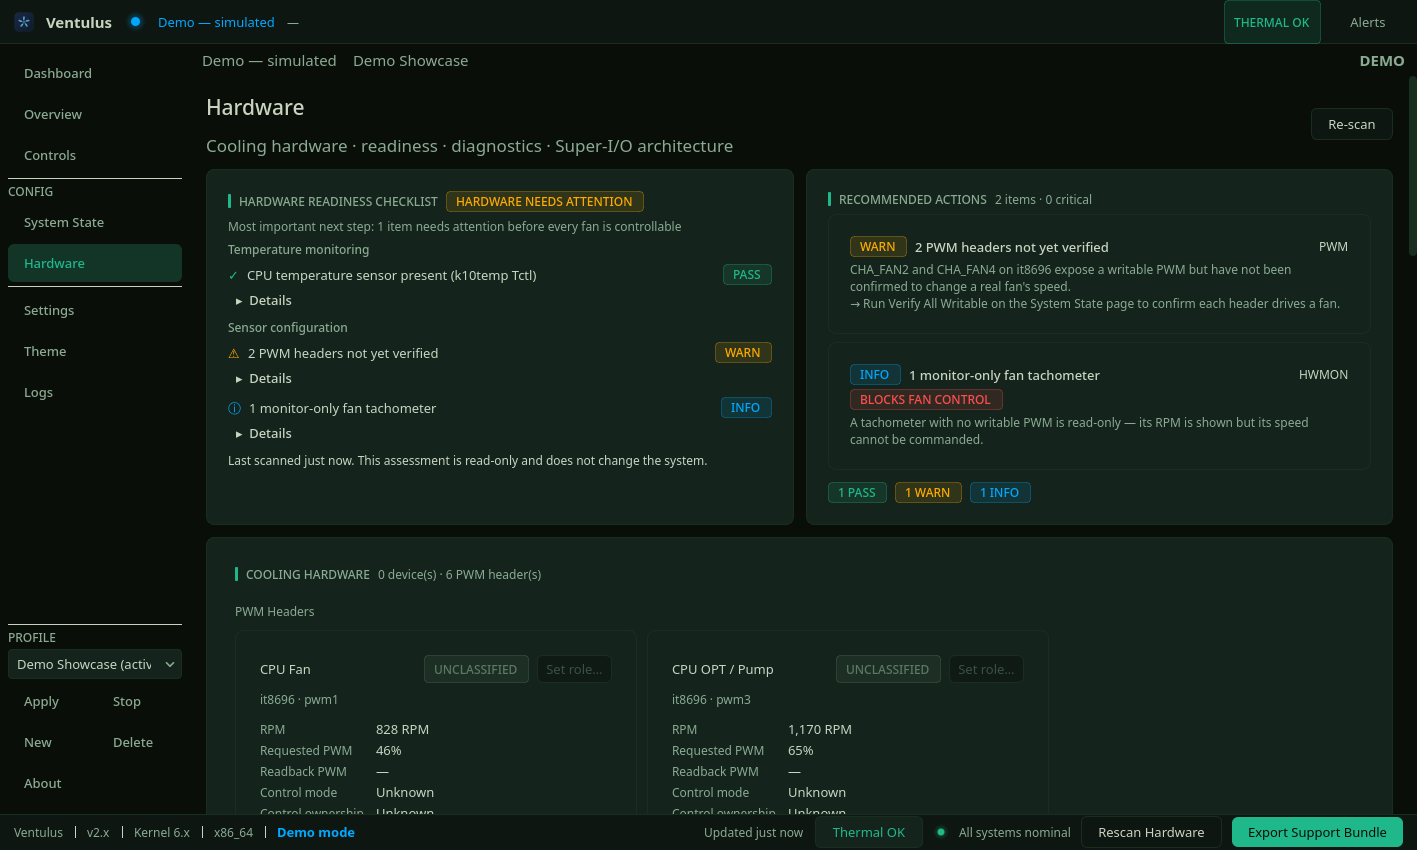
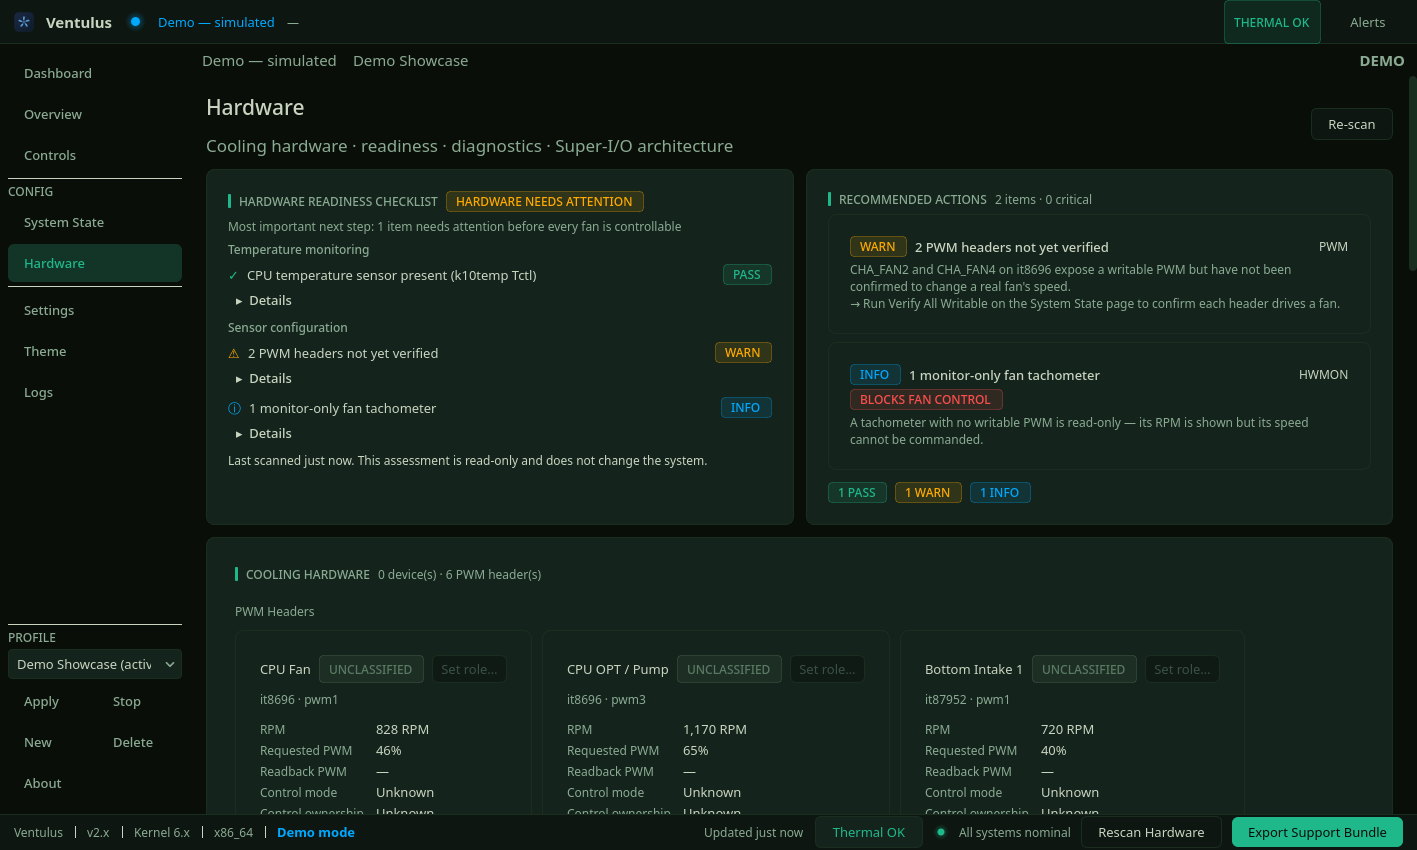
release: ventulus 6.0.0
Batch since v5.5.0: one major commit (the GUI no longer runs the tests
that drive fans for minutes, ee53d6d), two minor (ventulus-diag, 5df0fbd;
ventulus-diag split into its own package in every format, 391864f), two
patch (manual Administration section, abb8d79; diag socket-refusal and
empty-config messages, 1582f30) and one none (contract note on GPU verify
during a stop, 8f48ed2). The user asked for a minor bump and then chose
6.0.0 to honour the recorded major impact. Version moves to 6.0.0 in
pyproject, PKGBUILD and the README release line; [Unreleased] becomes
[6.0.0] with a note on why it is major. The ventulusd floor stays >= 3.0.0.
Screenshots recaptured: 05_hardware changed (Hardware Diagnostics note);
the dashboard differed only inside the chart's plotted traces (capture
noise), so its committed copy is kept.

diff --git a/README.md b/README.md
@@ -2,7 +2,7 @@
 
 *Formerly Control-OFC (`control-ofc-gui`).*
 
-**Latest release:** v5.5.0 — 2026-10-26. Pairs with `ventulusd` ≥ v3.0.0; version numbers carry on from Control-OFC. Individual features gate on newer daemons and say so in the app when one is missing.
+**Latest release:** v6.0.0 — 2026-11-03. Pairs with `ventulusd` ≥ v3.0.0; version numbers carry on from Control-OFC. Individual features gate on newer daemons and say so in the app when one is missing.
 
 Ventulus is a fan control app for Linux desktops. You decide how each group of fans
 should respond to temperature; a background service, [`ventulusd`](https://github.com/Plan-B-Development/ventulusd),

diff --git a/CHANGELOG.md b/CHANGELOG.md
@@ -5,6 +5,15 @@ rename. Version numbers carry on from Control-OFC.
 
 ## [Unreleased]
 
+## [6.0.0] — 2026-11-03
+
+Pairs with `ventulusd` >= v3.0.0, which the package requires; ventulusd 5.5.0 is the current daemon
+release, and names each test `ventulus-diag` starts in its journal.
+
+This is a major release: the GUI no longer runs the tests that drive fans for minutes. They
+moved to `ventulus-diag`, a new package that `ventulus` depends on, so an upgrade from the
+pacman, APT or DNF repository installs it (see **Changed** and **Removed** below).
+
 ### Added
 
 - **`ventulus-diag`, a command-line tool for the tests that drive fans on purpose.** It runs
